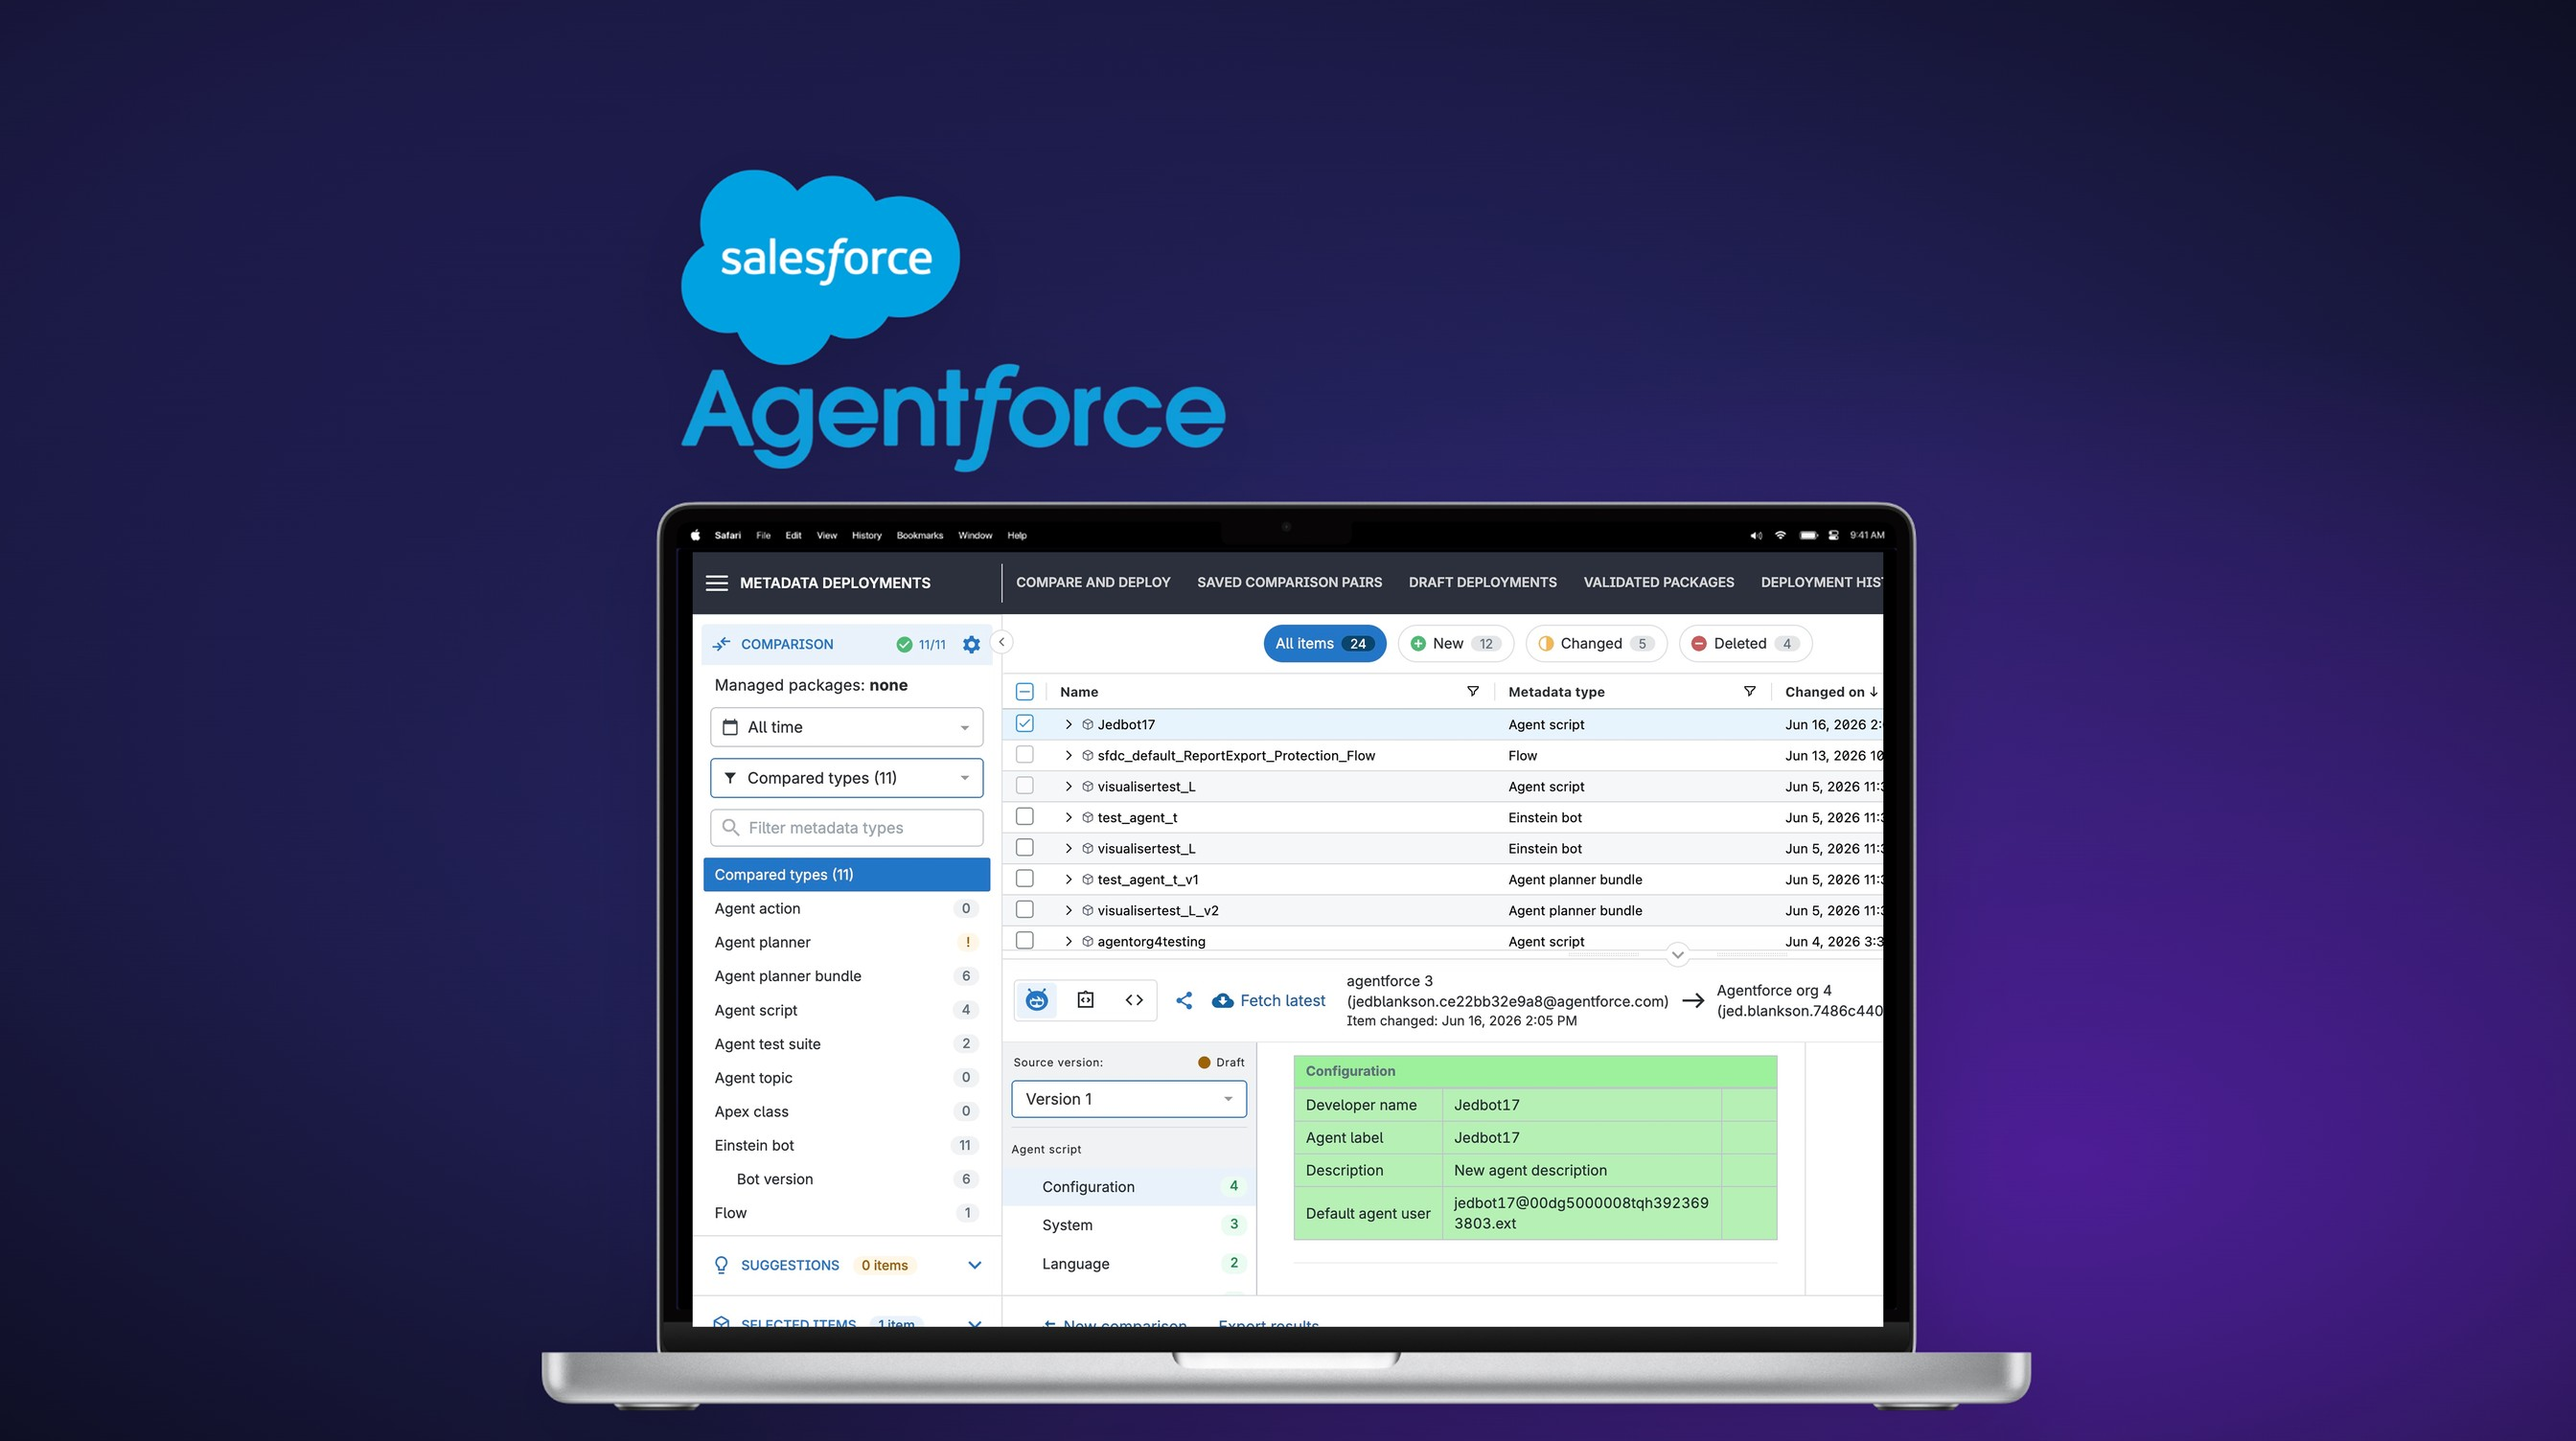
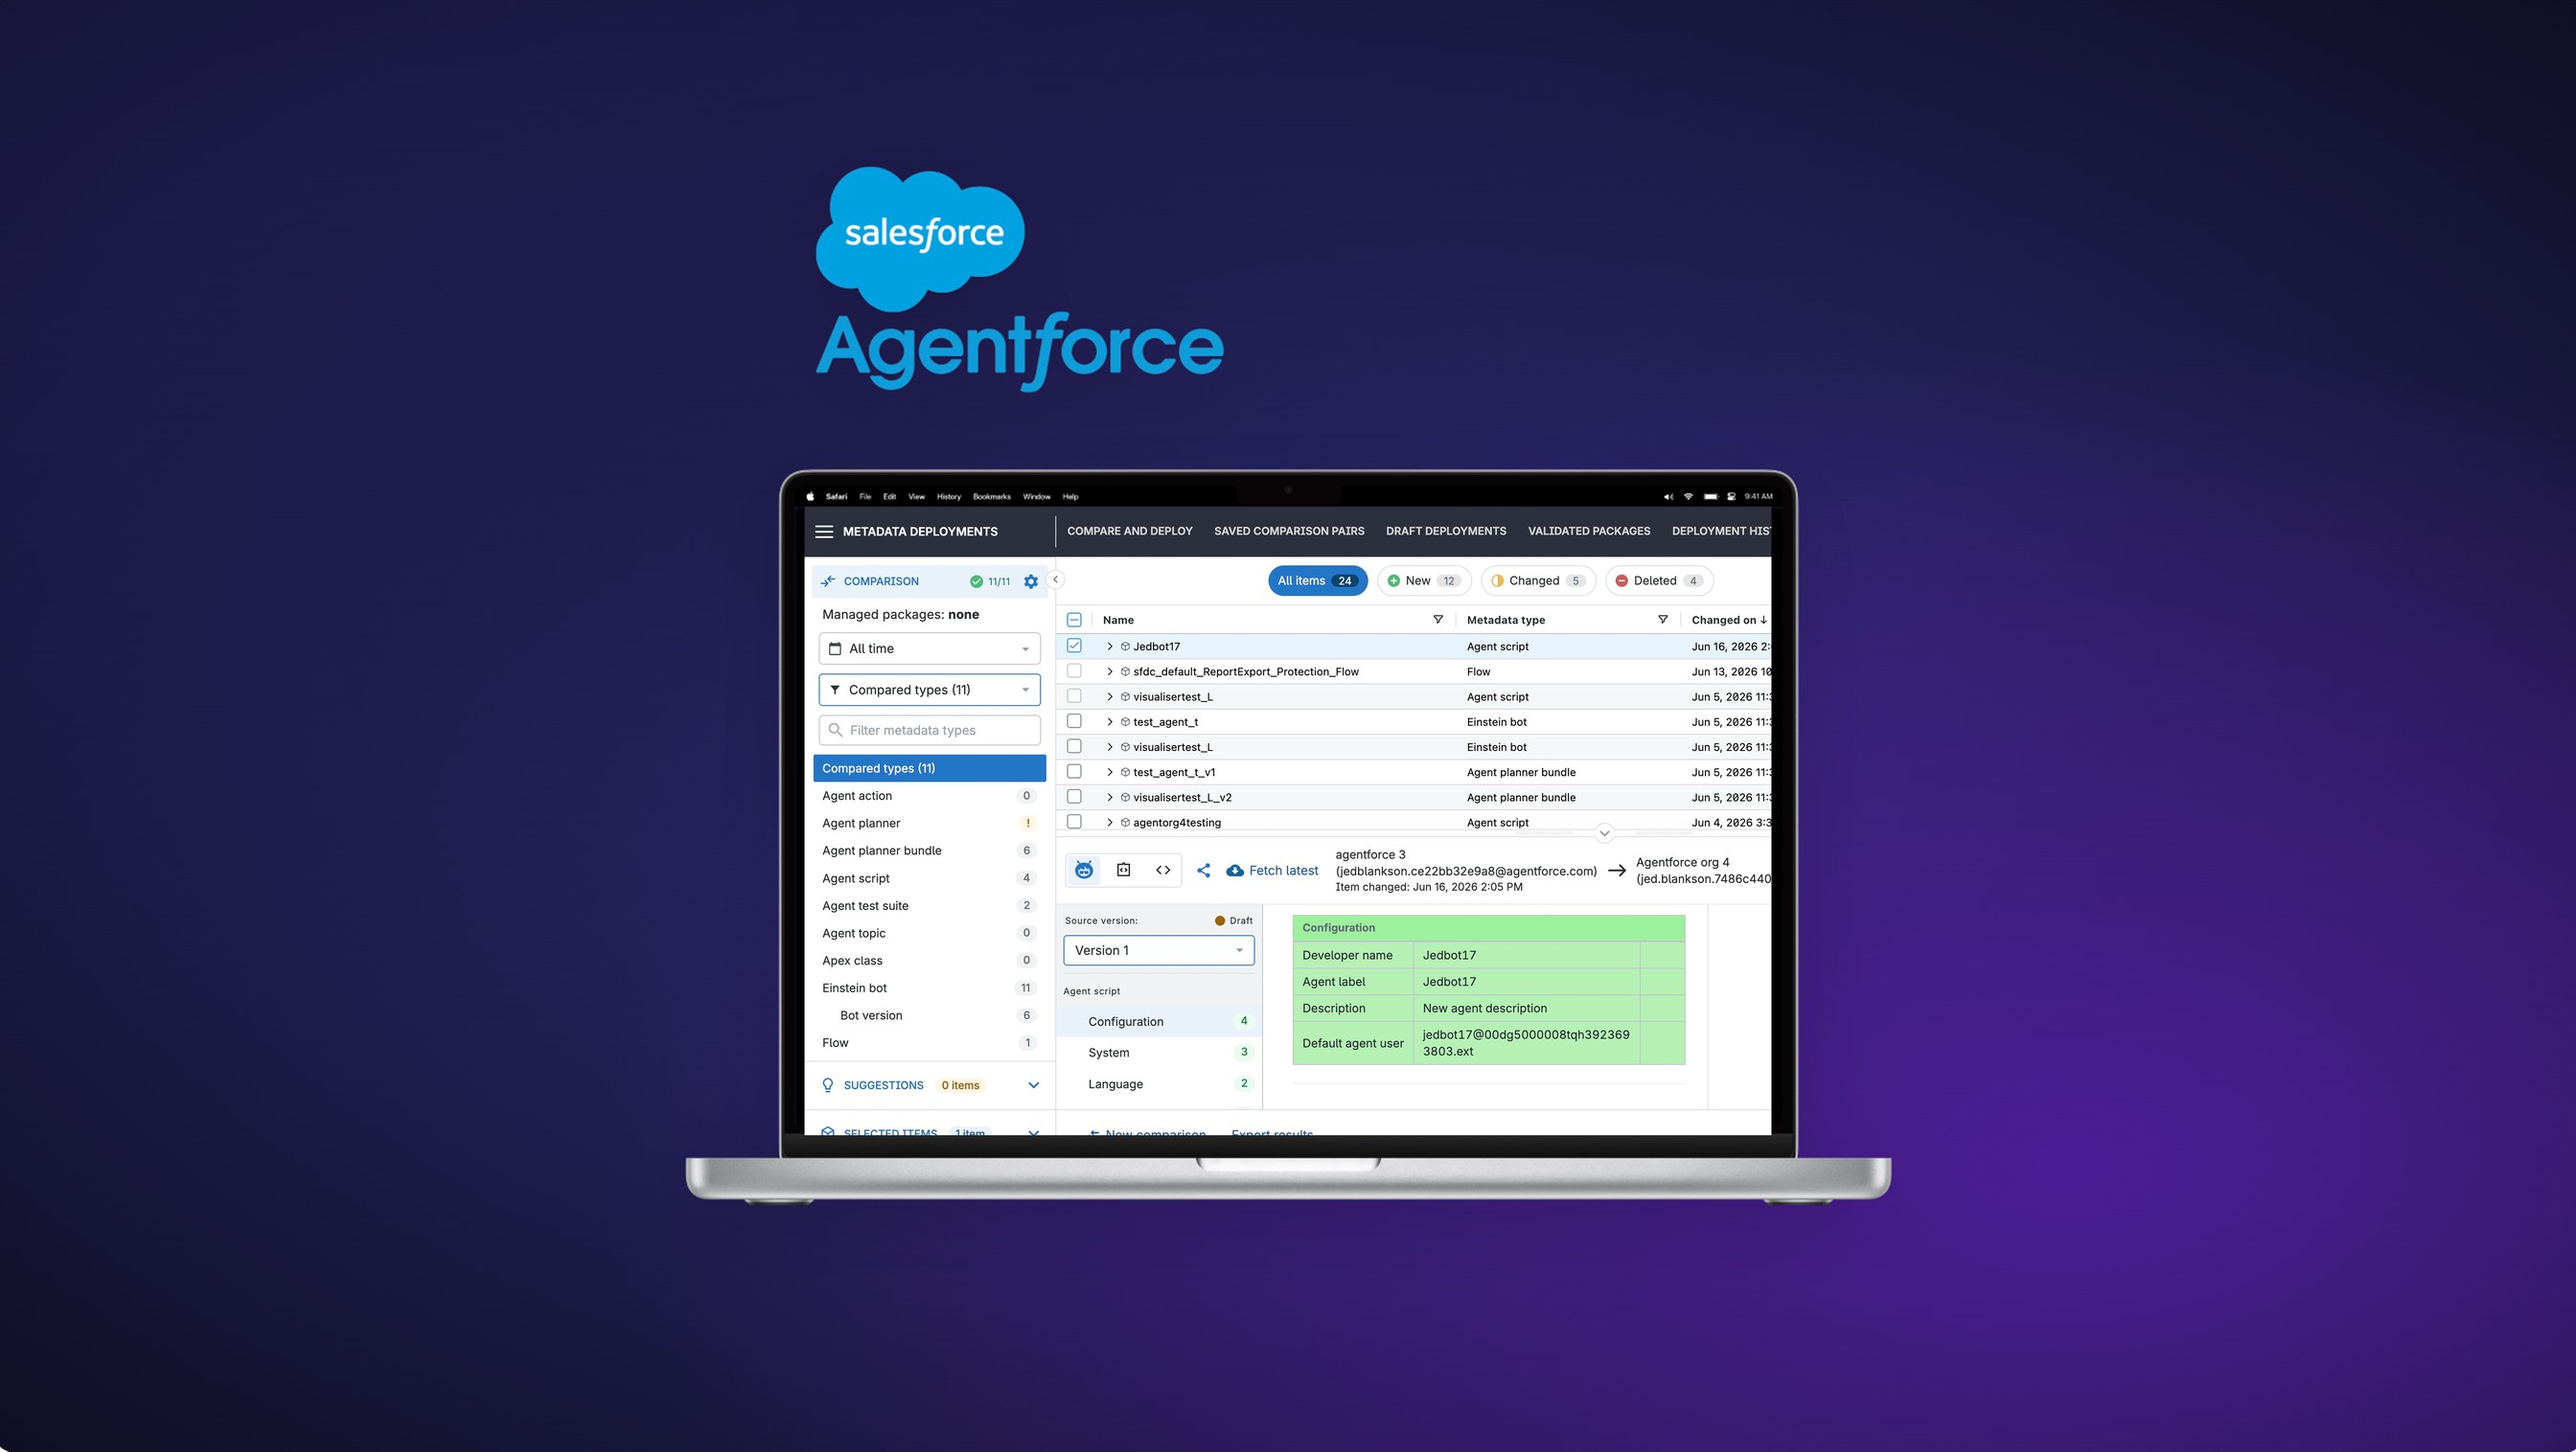
Gearset cover: use the better-framed mockup (full laptop, clean margins)
Swap in the re-composed export where the whole laptop and base sit inside the
frame; set heroRatio to its exact ratio. Combined with object-contain, the
full mockup shows.

Changed region(s): [[0.1875, 0.0938, 0.8125, 1.0]]

diff --git a/app/work/[slug]/page.tsx b/app/work/[slug]/page.tsx
@@ -387,7 +387,7 @@ const caseStudies: Record<string, CaseStudy> = {
     heroColor: "#0f1117",
     heroTextLight: true,
     heroImage: "/projects/ai-workflows/cover.jpg",
-    heroRatio: "84 / 47",
+    heroRatio: "672 / 379",
     images: [],
   },
   "beauhurst-integrations": {
